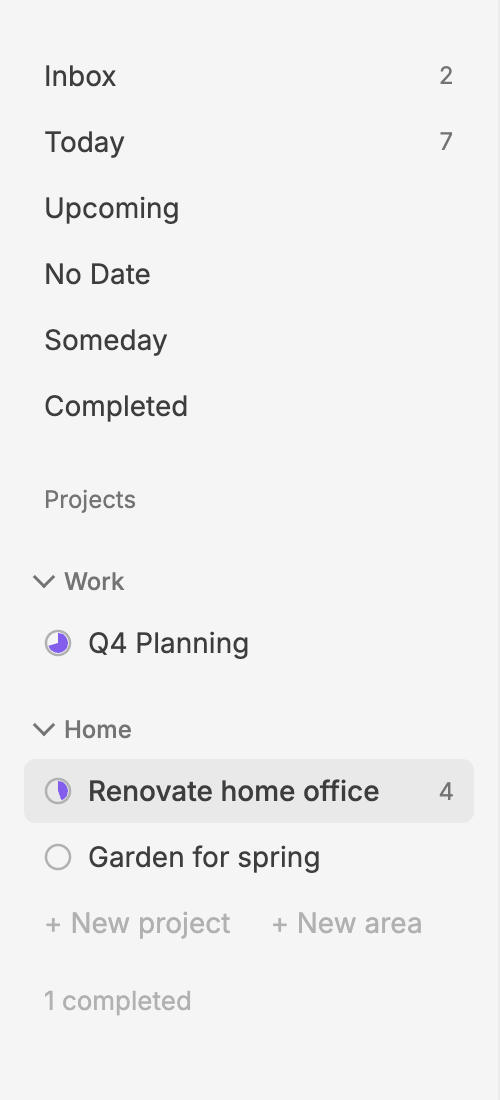
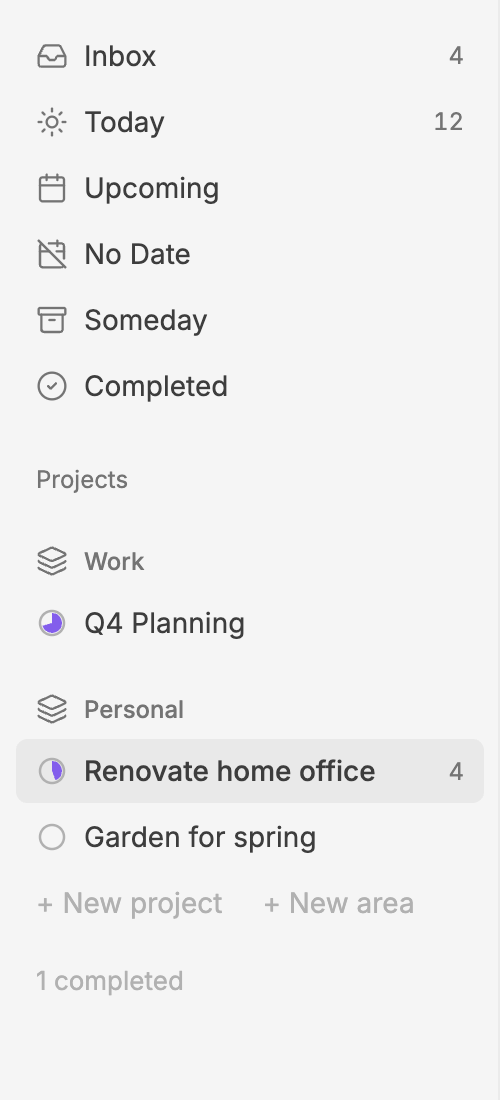
Release 1.0.39
The sidebar shows small icons for Inbox, Today, Upcoming, No Date, Someday
and Completed, and a layers icon for each area. The icons are muted, and
the selected list's icon takes the accent colour. List icons, project
progress rings and area icons share one column, so every name starts at
the same place. An area's fold arrow moves to the end of its name and
shows on hover or while the area is folded. Today in the schedule menu
uses the sun icon too. The areas screenshot is retaken to match.

diff --git a/src/ui/components/Sidebar.tsx b/src/ui/components/Sidebar.tsx
@@ -6,14 +6,15 @@ import type { Place } from '../../model/patch';
 import type { Area } from '../../model/types';
 import { useEnv } from '../env';
 import { useReorder } from '../reorder';
+import { Icon } from './bits';
 
-export const LISTS: { id: ListId; label: string }[] = [
-	{ id: { kind: 'inbox' }, label: 'Inbox' },
-	{ id: { kind: 'today' }, label: 'Today' },
-	{ id: { kind: 'upcoming' }, label: 'Upcoming' },
-	{ id: { kind: 'nodate' }, label: 'No Date' },
-	{ id: { kind: 'someday' }, label: 'Someday' },
-	{ id: { kind: 'completed' }, label: 'Completed' },
+export const LISTS: { id: ListId; label: string; icon: string }[] = [
+	{ id: { kind: 'inbox' }, label: 'Inbox', icon: 'inbox' },
+	{ id: { kind: 'today' }, label: 'Today', icon: 'sun' },
+	{ id: { kind: 'upcoming' }, label: 'Upcoming', icon: 'calendar' },
+	{ id: { kind: 'nodate' }, label: 'No Date', icon: 'calendar-off' },
+	{ id: { kind: 'someday' }, label: 'Someday', icon: 'archive' },
+	{ id: { kind: 'completed' }, label: 'Completed', icon: 'circle-check' },
 ];
 
 export interface ProjectActions {
@@ -337,9 +338,10 @@ function AreaHeader({
 			onClick={onToggle}
 			{...drag.props}
 		>
-			<span class="pl-nav-chevron" aria-hidden="true" />
+			<Icon name="layers" class="pl-nav-icon" />
 			<span class="pl-nav-label">{area.name}</span>
 			{collapsed && count > 0 && <span class="pl-nav-count">{count}</span>}
+			<span class="pl-nav-chevron" aria-hidden="true" />
 		</button>
 	);
 }
@@ -458,7 +460,7 @@ export function Sidebar({
 
 	return (
 		<nav class="pl-sidebar" aria-label="Lists" {...reorder.scopeProps}>
-			{LISTS.map(({ id, label }) => {
+			{LISTS.map(({ id, label, icon }) => {
 				const active = !!list && sameList(id, list);
 				const count = countOf(id);
 				return (
@@ -469,6 +471,7 @@ export function Sidebar({
 						aria-current={active ? 'page' : undefined}
 						onClick={() => onSelect(id)}
 					>
+						<Icon name={icon} class="pl-nav-icon" />
 						<span class="pl-nav-label">{label}</span>
 						{count > 0 && <span class="pl-nav-count">{count}</span>}
 					</button>

diff --git a/src/styles.css b/src/styles.css
@@ -109,6 +109,30 @@ body:not(.is-mobile) .workspace-leaf-content[data-type='plainlist'] > .view-head
 	white-space: nowrap;
 }
 
+/* A list's or area's icon: quiet, so the names lead. */
+.pl-icon {
+	flex: none;
+	display: inline-flex;
+	align-items: center;
+	justify-content: center;
+}
+
+.pl-nav-icon {
+	width: 16px;
+	height: 16px;
+	color: var(--pl-muted);
+}
+
+.pl-nav-icon svg {
+	width: 16px;
+	height: 16px;
+	stroke-width: 1.75px;
+}
+
+.pl-root button.pl-nav-item.is-active .pl-nav-icon {
+	color: var(--pl-accent);
+}
+
 .pl-nav-count {
 	font-size: 12px;
 	color: var(--pl-muted);
@@ -118,6 +142,8 @@ body:not(.is-mobile) .workspace-leaf-content[data-type='plainlist'] > .view-head
 
 .pl-ring {
 	flex: none;
+	/* Centred in the same 16px column as the lists' icons. */
+	margin: 0 1px;
 	overflow: visible;
 }
 
@@ -163,10 +189,10 @@ body:not(.is-mobile) .workspace-leaf-content[data-type='plainlist'] > .view-head
 .pl-root button.pl-nav-area {
 	display: flex;
 	align-items: center;
-	gap: 6px;
+	gap: 8px;
 	min-height: 28px;
 	margin-top: 12px;
-	padding: 0 10px 0 6px;
+	padding: 0 10px;
 	border-radius: var(--pl-radius);
 	font-size: 12px;
 	font-weight: var(--font-medium, 500);
@@ -225,14 +251,26 @@ body:not(.is-mobile) .workspace-leaf-content[data-type='plainlist'] > .view-head
 	bottom: -7px;
 }
 
+/* The fold chevron sits at the end, and only shows on hover or while folded. */
 .pl-nav-chevron {
 	flex: none;
-	width: 8px;
-	height: 8px;
+	width: 6px;
+	height: 6px;
+	margin: 0 2px 0 4px;
 	border-right: 1.5px solid currentColor;
 	border-bottom: 1.5px solid currentColor;
+	color: var(--pl-faint);
+	opacity: 0;
 	transform: translateY(-2px) rotate(45deg);
-	transition: transform 120ms ease;
+	transition:
+		transform 120ms ease,
+		opacity 120ms ease;
+}
+
+.pl-root button.pl-nav-area:hover .pl-nav-chevron,
+.pl-root button.pl-nav-area:focus-visible .pl-nav-chevron,
+.pl-nav-area.is-collapsed .pl-nav-chevron {
+	opacity: 1;
 }
 
 .pl-nav-area.is-collapsed .pl-nav-chevron {

diff --git a/src/ui/components/bits.tsx b/src/ui/components/bits.tsx
@@ -1,4 +1,4 @@
-import { Component as ObsidianComponent, MarkdownRenderer } from 'obsidian';
+import { Component as ObsidianComponent, MarkdownRenderer, setIcon } from 'obsidian';
 import type { JSX, RefObject, TextareaHTMLAttributes } from 'preact';
 import { useEffect, useLayoutEffect, useRef, useState } from 'preact/hooks';
 import { useEnv } from '../env';
@@ -94,6 +94,15 @@ export function Checkbox({ done, title, onToggle }: { done: boolean; title: stri
 			</svg>
 		</button>
 	);
+}
+
+/** One of Obsidian's Lucide icons, by name. */
+export function Icon({ name, class: cls }: { name: string; class?: string }) {
+	const el = useRef<HTMLSpanElement>(null);
+	useLayoutEffect(() => {
+		if (el.current) setIcon(el.current, name);
+	}, [name]);
+	return <span class={`pl-icon${cls ? ` ${cls}` : ''}`} ref={el} aria-hidden="true" />;
 }
 
 /** The repeat arrows, for a repeating to-do. */

diff --git a/src/ui/components/Nav.tsx b/src/ui/components/Nav.tsx
@@ -3,6 +3,7 @@ import { computeCounts, type ListId } from '../../model/lists';
 import type { UndoEntry } from '../../undo';
 import { useEnv, useToday, useWorkspace } from '../env';
 import { projectActions } from '../projectActions';
+import { Icon } from './bits';
 import { LISTS, Sidebar } from './Sidebar';
 
 /**
@@ -45,8 +46,9 @@ export function NavPlaceholder({ onSelect }: { onSelect: (list: ListId) => void 
 	return (
 		<div class="pl-root pl-nav-root">
 			<nav class="pl-sidebar" aria-label="Lists">
-				{LISTS.map(({ id, label }) => (
+				{LISTS.map(({ id, label, icon }) => (
 					<button type="button" key={id.kind} class="pl-nav-item" onClick={() => onSelect(id)}>
+						<Icon name={icon} class="pl-nav-icon" />
 						<span class="pl-nav-label">{label}</span>
 					</button>
 				))}

diff --git a/src/ui/scheduleMenu.ts b/src/ui/scheduleMenu.ts
@@ -15,7 +15,7 @@ export function scheduleMenu(
 	const menu = new Menu();
 	const phrase = (text: string): string => findDate(text, today, weekStart)?.date ?? today;
 	const choices: { title: string; icon: string; date: TaskDate }[] = [
-		{ title: 'Today', icon: 'star', date: today },
+		{ title: 'Today', icon: 'sun', date: today },
 		{ title: 'Tomorrow', icon: 'sunrise', date: addDays(today, 1) },
 		{ title: 'This weekend', icon: 'sofa', date: phrase('this weekend') },
 		{ title: 'Next week', icon: 'calendar', date: phrase('next week') },

diff --git a/CHANGELOG.md b/CHANGELOG.md
@@ -2,6 +2,16 @@
 
 All notable changes to Plainlist, newest first. Each release is on [GitHub](https://github.com/MrVersano/Plainlist/releases).
 
+## 1.0.39
+
+*October 12, 2026*
+
+### Improvements
+
+- The sidebar has small icons for Inbox, Today, Upcoming, No Date, Someday and Completed, and for each area. The selected list's icon takes the accent colour.
+- An area's fold arrow now sits at the end of its name and shows on hover, or while the area is folded.
+- **Today** in the schedule menu uses the same sun icon as the sidebar.
+
 ## 1.0.38
 
 *October 12, 2026*
